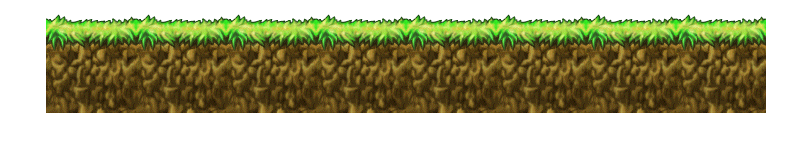
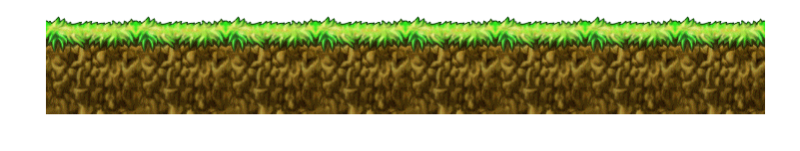
My first repository

diff --git a/game.js b/game.js
@@ -12,8 +12,54 @@
 
 
 class Game{
-    constructor(ctx) {
-        this.ctx = ctx
-        t
+    constructor(canvasId) {
+        //Accedemos a nuestro Canvas a traves del DOM
+        this.canvas = document.getElementById(canvasId)
+        //Declaramos nuestro contexto Canvas en 2D
+        this.ctx=this.canvas.getContext('2d')
+        //this.background = new Background(ctx)
+        //Establecemos medidas Canvas
+        this.canvas.width = 800
+        this.canvas.height = 400
+        //Intervalo de pintado en la renderizacion
+        this.drawInterval = undefined
+        //Renderización
+        this.fps = 1000 / 60
+        //Instanciamos la clase Background
+        this.background = new Background(this.ctx)
+        //Instanciamos la clase arbol para pintar 2 arboles en 2 puntos distintos
+        this.tree = new Tree(this.ctx, this.canvas.width / 4, 200)
+        this.tree_2= new Tree(this.ctx, this.canvas.width / 6, 200)
+        
+        
+        //Declaramos la canción princial del juego dentro de una constante, ya que es constante
+        //con los animales es varible
+        const theme = new Audio('./Sounds/funny-chase-cartoon-music-sound-theme-classic-famous-family-guy.mp4')
+
+        
+
+    }
+    start() {
+        //Si el juego no está arrancado, creo otro intervalo, de esta manera no "colapsa"
+        if (!this.drawInterval) {
+            //Al método setInterval se le pasarán como parámetros se le pasa un callback y los ms (que serán el atributo fps de nuestra clase Game)
+            this.drawInterval = setInterval(() => {
+                //El movimiento consiste en: limpiar lo anterior - mover - pintar
+                //this.clear()
+                //this.move()
+                this.draw()
+                
+             
+            },this.fps)
+        }
+    }
+    clear() {
+        this.ctx.clearRect(0,0,this.canvas.width,this.canvas.height)
+    }
+    draw() {
+        this.background.draw()
+    }
+    move() {
+        
     }
 }

diff --git a/index.html b/index.html
@@ -2,22 +2,44 @@
 
 <!DOCTYPE html>
 <html lang="en">
+
 <head>
     <meta charset="UTF-8">
     <meta name="viewport" content="width=device-width, initial-scale=1.0">
     <title>Go Sanctuary!</title>
     <!--HOJA ESTILOS-->
-    <link href="styles.css" rel="stylesheet" type="text/css"/>
+    <link href="styles.css" rel="stylesheet" type="text/css" />
 </head>
+
 <body>
-    <!--DEFINIMOS NUESTRO ELEMENTO CANVAS-->
-    <canvas id="santuaryGo!" width="800" height="400"></canvas>
-    <!--DEFINIMOS NUESTRO FONDO-->
+    <!--¿por qué un div-->
+    <div id="game-intro">
+        <!--ESTABLECEMOS NUESTRO ESCENARIO (CIELO + SUELO)-->
+        <!--<img src='./Tiles/grass.png' />-->
+        <!--INTRO FONDO JUEGO Y LOGO-->
+        <img src="./Intro/logo.png"/>
+        <!--BOTON START-->
+        <div id="button">
+        <img src="./Intro/button.png"/>
+        </div>
+
+    </div>
+        <div id="game-board">
+        <!--DEFINIMOS NUESTRO ELEMENTO CANVAS-->
+        <canvas id="SantuaryGo" width="715" height="400"></canvas>
+
+    <!--IMPORTAMOS NUESTRO ARCHIVO FONDO-->
     <script src="background.js"></script>
-    <!--DEFINIMOS NUESTRO CONTROLADOR DE JUEGO-->
+    <!--IMPORTAMOS NUESTRO ARCHIVO ÁRBOL-->
+    <script src="tree.js"></script>
+    <!--IMPORTAMOS NUESTRO CONTROLADOR DE JUEGO-->
     <script src="game.js"></script>
-    <!--DEFINIMOS NUESTRO JS PRINCIPA-->
+    <!--IMPORTAMOS NUESTRO ARCHIVO ANIMALES-->
+    <!--<script src="animals.js"></script>-->
+    <!--IMPORTAMOS NUESTRO JS PRINCIPAL ENCARGADO DE LISTENERS DE LAS TECLAS Y ARRANCAR JUEGO-->
     <script src="script.js"></script>
-    
+</div>
+
 </body>
+
 </html>

diff --git a/background.js b/background.js
@@ -4,9 +4,17 @@ class Background{
         this.ctx = ctx
         this.width = this.ctx.canvas.width
         this.height = this.ctx.canvas.height
+
+        //Inicializamos los valores de x e y
+        this.x = 0
+        this.y=this.height-200
+        //El fondo se desplazará de derecha a izquierda,de esta manera se simula el movimiento
+        //de nuestro personaje andando hacia la derecha
+        this.vx = -20
+            
         //Rellenamos el area Canvas de azul cielo
-        ctx.fillStyle = "sky"
-        ctx.fillRect(0, 0, this.width, this.height)
+        //this.ctx.fillStyle = "aquamarine"
+        //this.ctx.fillRect(0, 0, this.width, this.height)
         //Definimos nuestro fondo con la imagen del suelo cesped
         this.img = new Image()
         this.img.src = './Tiles/grass.png'
@@ -22,9 +30,12 @@ class Background{
     }
     //Metodo dibujar si el metodo isReady=true (imagen cargada en el servidor)
     draw() {
-        if (this.img.isReady()) {
-            this.ctx.drawImage(this.img, this.x, 0, this.width, this.height)
-        //Cuando nuestro personaje 
+        if (this.isReady()) {
+            //console.log("hola")
+            this.ctx.drawImage(this.img,this.x, this.y, this.width, this.height)
+        //Cuando nuestro personaje avance el fondo se desplazará hacia la izquierda con velocidad negativa vx
+            this.ctx.drawImage(this.img, this.x+this.width, this.y, this.width, this.height)
+            
         }
 
     }

diff --git a/script.js b/script.js
@@ -1,6 +1,20 @@
-//Accedemos a nuestro Canvas a traves del DOM
-const canvas = document.getElementById('SantuartGo!')
-//Declaramos nuestro contexto Canvas en 2D
-const ctx = canvas.getContext('2d')
-//Declaramos nuestro juego, creando uno a partir de la clase Game
-const game= new Gamepad(ctx)
+//Evento que produce cuando el navegador ha cargado todo lo necesario para que podamos interactuar con él
+//Se le pasa un string con el tipo de evento como primer parametro y como segundo una funcion callback
+window.addEventListener('load', () => {
+    //Instancia clase juego y le pasamos como parámetro al constructor nuestro canvasId
+    const game = new Game('SantuaryGo')
+    //Evento que se iniciará (arrancar juego con start) cuando pulsemos cualquier tecla alfanumérica
+    /*document.addEventListener('onclick', () => {
+        game.start()
+        
+    })*/
+    //Guardamos el elemento 'button' en una constante llamada button_start
+    const button_start = document.getElementById('button')
+    //Añadimos el evento a nuestro elemento almacenado en la constante
+    button_start.onclick = () => {
+            console.log('clicked')
+        game.start();
+    }
+})
+
+

diff --git a/animals.js b/animals.js
@@ -1,16 +1,22 @@
 class Animals {
-    constructor(ctx)
-    this.ctx = ctx
-this.sound() {
-    //this.sound.play() 
-    fire: newAudio('./Sounds/funny-chase-cartoon-music-sound-theme-classic-famous-family-guy.mp4)
-}
+    constructor(ctx, sound) {
+        this.ctx = ctx
+        this.sound = new Audio(sound)
+    }
+    
+    sound() {
+    this.sound.play() 
+    //fire: newAudio('./Sounds/funny-chase-cartoon-music-sound-theme-classic-famous-family-guy.mp4)
+    }
 }
 
 //Instanciamos la clase animal para crear clase pollo
 class Chicken extends Animals {
-    constructor(ctx)
-    super(ctx, this.x, 0)
-    this.x = x
+    constructor(ctx, sound) {
+        super(ctx, sound)
+        this.x = 100
+    }
 
 }
+
+new Chicken(CTX, SOUND, x)

diff --git a/styles.css b/styles.css
@@ -1,0 +1,28 @@
+/*Selector del elemento canvas*/
+canvas{
+    border: 1px solid black;
+    /*background: aqua;*/
+}
+/*Sobrescribimos las propiedades en nuestras etiquetas html y body por si 
+el navegador por defecto no tuviera en cuenta las del canvas*/
+html,body{
+    width: 100%;
+    height:100%;
+    margin:0;
+    padding:0;
+}
+
+*{
+    box-sizing: border-box;
+}
+#game-intro img{
+    background-size:cover
+}
+/*Selector identificador*/
+/*#game{
+    width: 100%;
+    height: 100vh; /viewport-height: altura de ventana gráfica
+    background-image: url("./Tiles/grass.png");
+    /background-size:cover;
+    background-position: 0 800;
+}*/

diff --git a/tree.js b/tree.js
@@ -1,0 +1,28 @@
+class Tree{
+    constructor(ctx, x, y) {
+        this.ctx = ctx
+        this.x = x
+        this.y = y
+        
+        this.img = new Image()
+        this.img.src = './Tiles/tree.png'
+        
+        this.img.isReady = false
+        this.img.onload = () => {
+            this.img.isReady = true
+        }
+    }
+
+
+//Metodo isReady
+isReady() {
+    return this.img.isReady
+}
+//Metodo dibujar si el metodo isReady=true (imagen cargada en el servidor)
+draw() {
+    if (this.img.isReady()) {
+        console.log("hola")
+        this.ctx.drawImage(this.img, this.x, this.y)
+    }
+}
+}

diff --git a/constants.js b/constants.js
@@ -1,0 +1,4 @@
+const KEY_UP = 38
+const KEY_RIGHT = 39
+const KEY_LEFT = 37
+const SPEED = 0.4 
